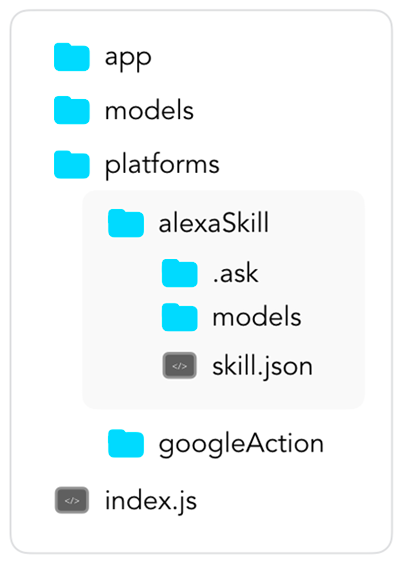
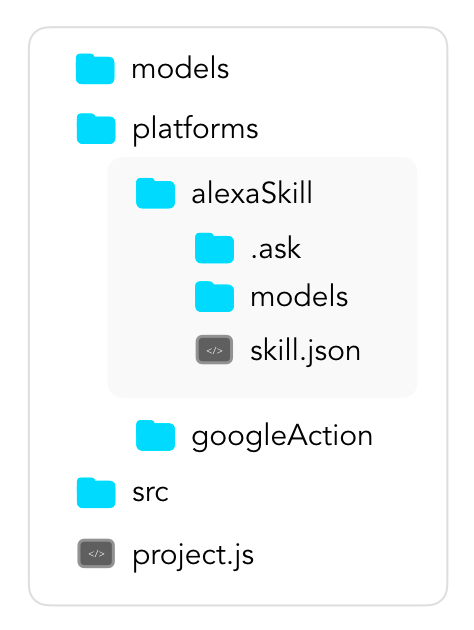
📝 Update Images

diff --git a/docs/getting-started/installation/v1-migration.md b/docs/getting-started/installation/v1-migration.md
@@ -2,44 +2,65 @@
 
 Learn how to migrate from a Jovo v1 project to the new v2 of the Jovo Framework.
 
-* [Introduction](#introduction)
-* [Project Structure](#project-structure)
-    * [project.js](#projectjs)
-    * [config.js](#configjs)
-* [Plugins](#plugins)
-* [Intent Syntax](#intent-syntax)
-* [Inputs](#inputs)
-* [Jovo Variables](#jovo-variables)
-* [Responses are sent automatically](#responses-are-sent-automatically)
-* [Alexa Dialog Interface](#alexa-dialog-interface)
-* [Jovo Persistence Layer](#jovo-persistence-layer)
+* [Getting Stated with v2](#getting-started-with-v2)
+    * [Installation](#installation)
+    * [Project Structure](#project-structure)
+* [New Concepts](#new-concepts)
+    * [Plugins](#plugins)
+    * [Jovo Objects](#jovo-variables)
+    * [Integrations](#integrations)
+    * [Responses are sent automatically](#responses-are-sent-automatically)
+* [Breaking Changes](#breaking-changes)
+    * [Inputs](#inputs)
+    * [Alexa Dialog Interface](#alexa-dialog-interface)
+* [Optional Changes](#optional-changes)
+    * [Intent Syntax](#intent-syntax)
 * [Examples](#examples)
 
 
-## Introduction
+## Getting Stated with v2
 
-With the update to `v2` we've have completely refactored the code base of both the framework and the CLI to make it easier for us and you as well to maintain everything going forward. 
+With the update to `v2` we've have completely refactored the code base of both the Jovo Framework and the Jovo CLI to make it more modular and easier to extend.
 
-The code base now has a plugin architecture, where each platform (e.g. Amazon Alexa, Google Assistant), integration (e.g. DynamoDb, Dashbot) and tool (e.g. Jovo Debugger) was outsourced as a plugin.
+The code base now has a plugin architecture, where each platform (e.g. Amazon Alexa, Google Assistant), integration (e.g. DynamoDb, Dashbot) and tool (e.g. Jovo Debugger) can be added and removed as a plugin.
 
 Although most of these changes were under the hood and don't directly affect the usage of the framework, we used the chance to make quality of life changes to the project structure and increased the consistency of the framework's interfaces.
 
-## Project Structure
+### Installation
 
-```javascript
-// old                              new
-app/                                src/                  
-  └── app.js                          |── app.js  
-models/                               |── config.js
-  └── en-US.json                      └── index.js
-app.json                            models/
-index.js                              └── en-US.json
-                                    project.js
+To get started with the new Jovo `v2`, install the Jovo CLI:
+
+```sh
+$ npm install -g jovo-cli@beta
+
+# Sudo may be required
+$ sudo npm install -g jovo-cli@beta
+
+# If you run into problems, uninstall v1 versions first
+$ npm uninstall -g jovo-cli
 ```
 
-We've moved the files needed for the fulfillment to the `src` folder
+Then, create a new Jovo project with:
 
-### project.js
+```sh
+$ jovo new <directory>
+```
+
+
+### Project Structure
+
+New Jovo projects have an updated folder structure.
+
+![New Jovo v2 Project Structure](../../img/jovo-v2-project-structure.png)
+
+There are several changes that are important:
+* [`project.js`](#projectjs) is the new file for project configuration (previously `app.json`)
+* [`src`] contains all the files for fulfillment (previously it was `index.js` in the root + the `app` folder with `app.js`)
+* The `src` folder now contains a [`config.js`](#configjs) file for app configuration
+
+#### project.js
+
+> [Find everything about `project.js` here](../../configuration/project-js.md '../project-js').
 
 The `project.js` file is the equivalent to the `app.json` file with small tweaks here and there.
 
@@ -65,7 +86,9 @@ module.exports = {
 };
 ```
 
-### config.js
+#### config.js
+
+> [Find everything about `config.js` here](../../configuration/config-js.md '../config-js').
 
 The `config.js` file is the equivalent to the configuration part at the top of the `app.js` file in the default project structure.
 
@@ -106,7 +129,10 @@ module.exports = {
 };
 ```
 
-## Plugins
+
+## New Concepts
+
+### Plugins
 
 With the new plugin architecture of the framework, the core `jovo-framework` npm package does not contain all the features anymore. Each platform, integration and tool has to be imported, configured and initialized individually.
 
@@ -168,7 +194,7 @@ Debugger | Allows you to use the [Jovo Debugger](../../testing/debugger.md './te
 FileDb | Local database inside `JSON` file for local development | `jovo-db-filedb`
 MySQL | 
 
-## Intent Syntax
+### Intent Syntax
 
 In `v2` we use the method syntax introduced with ES6:
 
@@ -209,7 +235,7 @@ app.setHandler({
 })
 ```
 
-## Inputs
+### Inputs
 
 With `v2` you won't be able to access user inputs by adding them as parameters to your intent anymore:
 
@@ -243,7 +269,7 @@ this.$data.moreData = 'someData';
 this.toIntent('PizzaIntent');
 ```
 
-## Jovo Objects
+### Jovo Objects
 
 For `v2` we've updated the way interfaces are called to make it easily distinguishable from actual method calls:
 
@@ -309,7 +335,7 @@ this.$user.$data.key = value;
 
 ## Examples
 
-For more examples how all of these changes look in action, we've updated both the [`examples` folder](PLACEHOLDER) and the [templates repository](https://github.com/jovotech/jovo-templates) 
+For more examples how all of these changes look in action, we've updated both the [`examples` folder](https://github.com/jovotech/jovo-framework-nodejs/tree/v2/examples) and the [templates repository](https://github.com/jovotech/jovo-templates/tree/v2) 
 
 
 <!--[metadata]: {"description": "Learn how to migrate from a Jovo v1 project to the new v2 of the Jovo Framework.", "route": "installation/v1-migration"}-->

diff --git a/docs/advanced-concepts/architecture.md b/docs/advanced-concepts/architecture.md
@@ -16,20 +16,18 @@ With every [request and response](../basic-concepts/requests-responses.md './req
 
 Middleware | Description
 --- | --- 
-`setup` | First initialization with incoming request
-`request` | Request gets processed
-`platform.init` | Platform (e.g. AlexaSkill) gets initialized
-`platform.nlu'` | NLU information gets extracted for built-in NLUs (e.g. Alexa)
-`nlu` | Request gets routed through external NLU (e.g. Dialogflow standalone)
-`initialize.user` | Uber object is initialized
-`initialize.cms` | CMS is initialized
-`logic.router` | Request and NLU data is passed to router
-`logic.handler` | Handler logic
-`output` | Output object is created from handler logic
-`finalize.user` | User gets finalized, DB operations
-`response` | Response gets created from output object
-`sendresponse` | Response gets sent back to platform
-`handleerror` | Errors get handled if applicable
+`setup` | First initialization of `app` object with first incoming request. Is executed once as long as `app` is alive
+`request` | Raw JSON request from platform gets processed. Can be used for authentication middlewares.
+`platform.init` | Determines which platform (e.g. `Alexa`, `GoogleAssistant`) sent the request. Initialization of abstracted `jovo` (`this`) object.
+`platform.nlu'` | Natural language understanding (NLU) information gets extracted for built-in NLUs (e.g. `Alexa`). Intents and inputs are set.
+`nlu` | Request gets routed through external NLU (e.g. `Dialogflow` standalone). Intents and inputs are set.
+`user.load` | Initialization of user object. User data is retrieved from database.
+`router` | Request and NLU data (intent, input, state) is passed to router. intentMap and inputMap are executed. Handler path is generated. 
+`handler` | Handler logic is executed. Output object is created and finalized.
+`user.save` | User gets finalized, DB operations.
+`platform.output` | Platform response JSON gets created from output object.
+`response` | Response gets sent back to platform.
+`fail` | Errors get handled if applicable.
 
 
 ## Packages

diff --git a/docs/basic-concepts/data/logging.md b/docs/basic-concepts/data/logging.md
@@ -33,7 +33,9 @@ You can log the incoming JSON requests by adding the following configuration:
 
 ```javascript
 // config.js file
-requestLogging: true,
+logging: {
+    request: true,
+},
 ```
 
 The result looks like this (data changed):
@@ -85,14 +87,17 @@ The result looks like this (data changed):
 }
 ```
 
-As you can see above, the logs of a request are quite long and impractical, if you only need certain information. With `requestLoggingObjects`, you can limit the log output to specific objects.
+As you can see above, the logs of a request are quite long and impractical, if you only need certain information. With `requestObjects`, you can limit the log output to specific objects.
 
 ```javascript
 // config.js file
-requestLoggingObjects: [
-  'request',
-  'context.System.user'
-],
+logging: {
+    request: true,
+    requestObjects: [
+      'request',
+      'context.System.user'
+    ],
+},
 ```
 
 The example for `request` above will reduce the log output to this:
@@ -113,9 +118,12 @@ The example for `request` above will reduce the log output to this:
 
 You can log the outgoing JSON responses by adding the following configuration:
 
+
 ```javascript
 // config.js file
-responseLogging: true,
+logging: {
+    response: true,
+},
 ```
 
 The result looks like this:
@@ -140,9 +148,12 @@ Similar to `requestLoggingObjects`, you can limit the response logging output to
 
 ```javascript
 // config.js file
-responseLoggingObjects: [
-  'response'
-],
+logging: {
+    response: true,
+    responseObjects: [
+      'response'
+    ],
+},
 ```
 
 The example above will reduce the log output to this:

diff --git a/docs/basic-concepts/output/i18n.md b/docs/basic-concepts/output/i18n.md
@@ -51,47 +51,37 @@ For example, it could look like this:
 
 ```javascript
 // config.js file
-const de = require('./somePath/de-DE');
-const us = require('./somePath/en-US');
-
-let languageResources = {
-    'de-DE': de,
-    'en-US': us,
-}
-
-// Using the constructor
-const config = {
-    i18n: {
-        resources: languageResources
-    },      
-    // Other configurations
-};
-
-// Using the setter
-app.setLanguageResources(languageResources);
-
-
+i18n: {
+    resources: {
+        'en-US': require('./path/to/files/en-US'),
+        'de-DE': require('./path/to/files/de-DE'),
+    }
+},      
 ```
+
+Also possible:
+
+```javascript
+// config.js file
+i18n: {
+    filesDir: './path/to/files/',
+},      
+```
+
 
 ### i18next Configuration Options
 
 You can also add additional configurations that are available for i18next. Those can be added like this:
 
 ```javascript
-// Using the constructor
-const config = {
-    i18n: {
-        returnNull: false,
-        fallbackLng: 'en-US',
-    },      
-    // Other configurations
-};
-
-// Using the setter
-app.setLanguageResources(languageResources, { returnObjects: true });
+// config.js file
+i18n: {
+    returnNull: false,
+    fallbackLng: 'en-US',
+},      
 ```
 
-You can find a list of [i18next configuration options here](https://www.i18next.com/configuration-options.html).
+> You can find a list of [i18next configuration options here](https://www.i18next.com/configuration-options.html).
 
 
 ## Accessing the Content

diff --git a/docs/workflows/cli/README.md b/docs/workflows/cli/README.md
@@ -1,6 +1,6 @@
 # Jovo CLI
 
-The Jovo Command Line Tools offer the ability to create, prototype, test, and deploy your voice app quickly.
+The Jovo Command Line Tools offer the ability to create, prototype, test, and deploy your voice app quickly. Learn more about all the commands here.
 
 * [Introduction](#introduction)
 * [Installation](#installation)
@@ -25,7 +25,7 @@ The Jovo CLI (GitHub Repository: [jovotech/jovo-cli](https://github.com/jovotech
 To make best use of the Jovo CLI, install it globally via npm:
 
 ```sh
-$ npm install -g jovo-cli
+$ npm install -g jovo-cli@beta
 ```
 
 After successful installation, you should be able to see the jovo menu by just typing the following into your command line:

diff --git a/docs/basic-concepts/requests-responses.md b/docs/basic-concepts/requests-responses.md
@@ -10,6 +10,10 @@ Learn more about the general architecture and lifecycle of voice app requests an
 
 ## Introduction to Voice Interactions
 
+The request and response lifecycle of a voice application has two key concepts:
+* Session
+* Interaction
+
 Each interaction between a user and a voice application consists of an interaction pair with a `request` and a `response`.
 
 ![One Session](../img/session-tell.png)

diff --git a/docs/basic-concepts/model/platforms/README.md b/docs/basic-concepts/model/platforms/README.md
@@ -1,6 +1,6 @@
 # Platforms
 
-Learn more about the `platforms` folder, which is represents the voice platform projects, including information and language models.
+Learn more about the `platforms` folder, which is represents the voice platform projects, including information and language models. Usually, this folder is just used for deployment.
 
 * [Introduction](#introduction)
 * [Alexa Skill](#alexa-skill)

diff --git a/docs/getting-started/installation/README.md b/docs/getting-started/installation/README.md
@@ -31,7 +31,7 @@ There are several ways how you can install Jovo:
 To use Jovo in the best and most efficient way, install the Jovo CLI globally with:
 
 ```sh
-$ npm install -g jovo-cli
+$ npm install -g jovo-cli@beta
 ```
 
 After successful installation, you should be able to see the Jovo CLI menu by just typing the following into your command line:
